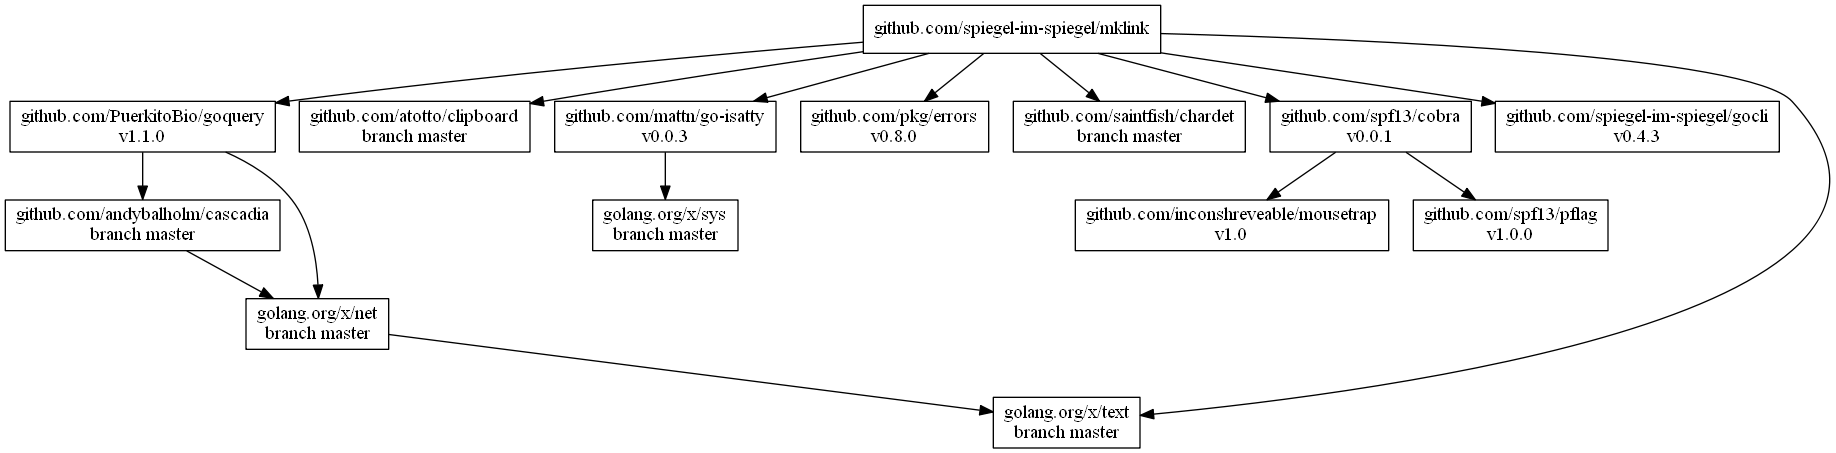
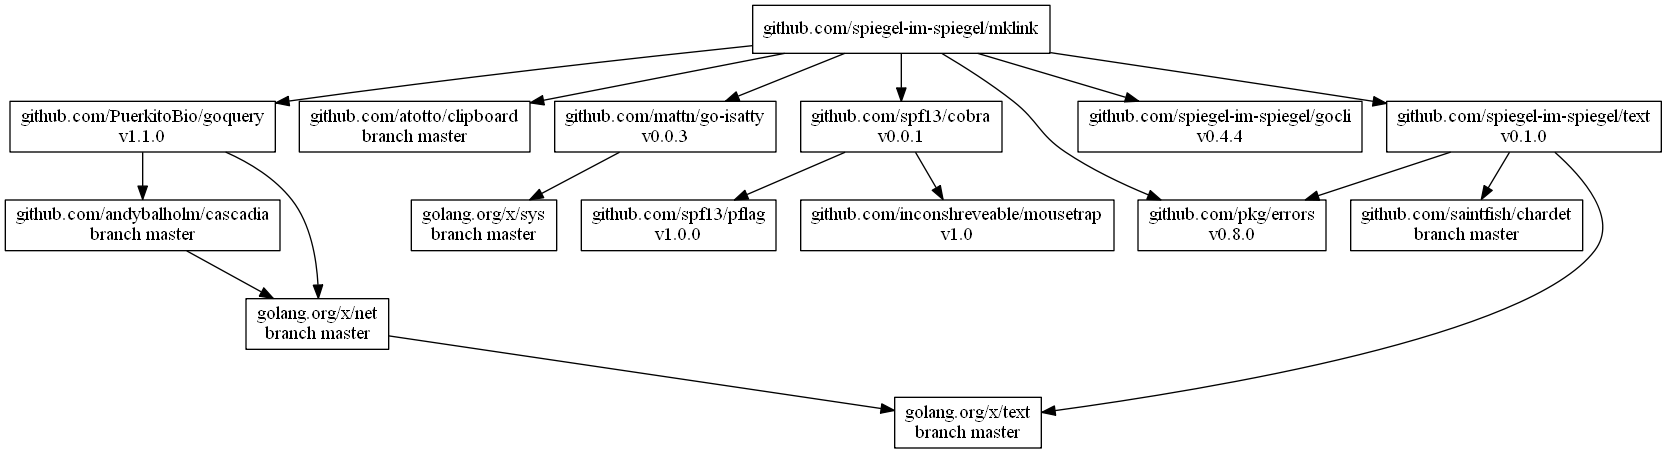
Add "spiegel-im-spiegel/text" package

diff --git a/charencode.go b/charencode.go
@@ -1,87 +1,17 @@
 package mklink
 
 import (
-	"bytes"
-	"io"
-
-	"github.com/saintfish/chardet"
-	"golang.org/x/text/encoding/japanese"
-	"golang.org/x/text/transform"
+	"github.com/spiegel-im-spiegel/text/decode"
 )
-
-//CharEncode is type of character encoding
-type CharEncode int
-
-const (
-	//CharUnknown is unknown character
-	CharUnknown CharEncode = iota
-	//CharUTF8 is UTF-8
-	CharUTF8
-	//CharISO8859_1 is ISO-8859-1
-	CharISO8859_1
-	//CharShiftJIS is Shift-JIS
-	CharShiftJIS
-	//CharEUCJP is EUC-JP
-	CharEUCJP
-	//CharISO2022JP is ISO-2022-JP
-	CharISO2022JP
-)
-
-var (
-	charEncodeMap = map[CharEncode]string{
-		CharUTF8:      "UTF-8",
-		CharISO8859_1: "ISO-8859-1",
-		CharShiftJIS:  "Shift_JIS",
-		CharEUCJP:     "EUC-JP",
-		CharISO2022JP: "ISO-2022-JP",
-	}
-)
-
-//TypeofCharEncode returns CharEncode from string
-func TypeofCharEncode(s string) CharEncode {
-	for key, value := range charEncodeMap {
-		if value == s {
-			return key
-		}
-	}
-	return CharUnknown
-}
-
-func (e CharEncode) String() string {
-	if name, ok := charEncodeMap[e]; ok {
-		return name
-	}
-	return "unknown"
-
-}
-
-//DetectCharEncode returns character encoding
-func DetectCharEncode(body []byte) CharEncode {
-	det := chardet.NewTextDetector()
-	res, err := det.DetectBest(body)
-	if err != nil {
-		return CharUnknown
-	}
-	//fmt.Println(res.Charset)
-	return TypeofCharEncode(res.Charset)
-}
 
 //ToUTF8 returns string with UTF-8 encoding
 func ToUTF8(body []byte) string {
-	var trans transform.Transformer
-	switch DetectCharEncode(body) {
-	case CharUTF8, CharISO8859_1:
-		return string(body)
-	case CharShiftJIS:
-		trans = japanese.ShiftJIS.NewDecoder()
-	case CharEUCJP:
-		trans = japanese.EUCJP.NewDecoder()
-	case CharISO2022JP:
-		trans = japanese.ISO2022JP.NewDecoder()
-	default:
+	if len(body) == 0 {
 		return ""
 	}
-	buf := new(bytes.Buffer)
-	io.Copy(buf, transform.NewReader(bytes.NewReader(body), trans))
-	return buf.String()
+	utf8Text, err := decode.ToUTF8ja(body)
+	if err != nil {
+		return ""
+	}
+	return string(utf8Text)
 }

diff --git a/mklink.go b/mklink.go
@@ -7,7 +7,6 @@ import (
 	"io"
 	"io/ioutil"
 	"strings"
-	"unicode/utf8"
 
 	"github.com/PuerkitoBio/goquery"
 	"github.com/pkg/errors"
@@ -33,14 +32,14 @@ func New(url string) (*Link, error) {
 	doc.Find("head").Each(func(_ int, s *goquery.Selection) {
 		s.Find("title").Each(func(_ int, s *goquery.Selection) {
 			t := ToUTF8([]byte(s.Text()))
-			if len(t) > 0 && utf8.ValidString(t) {
+			if len(t) > 0 {
 				link.Title = trimString(t)
 			}
 		})
 		s.Find("meta[name='description']").Each(func(_ int, s *goquery.Selection) {
 			if v, ok := s.Attr("content"); ok {
 				d := ToUTF8([]byte(v))
-				if len(d) > 0 && utf8.ValidString(d) {
+				if len(d) > 0 {
 					link.Description = trimString(d)
 				}
 			}
